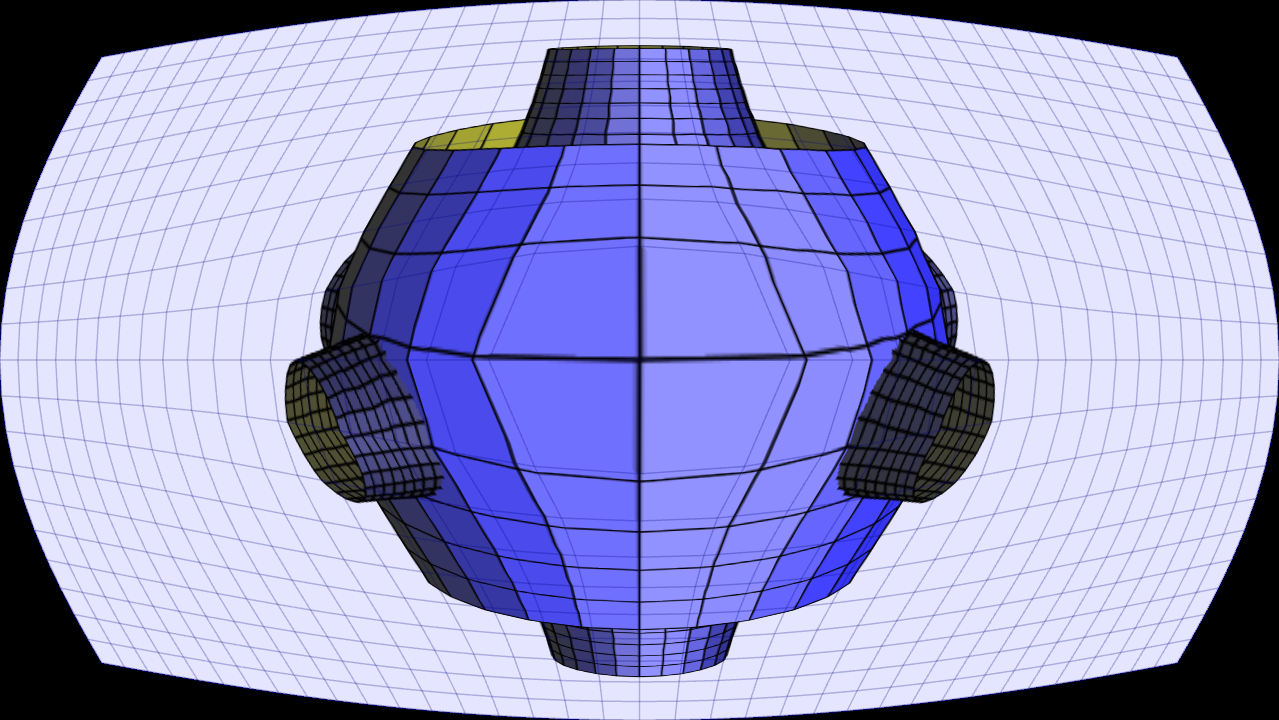
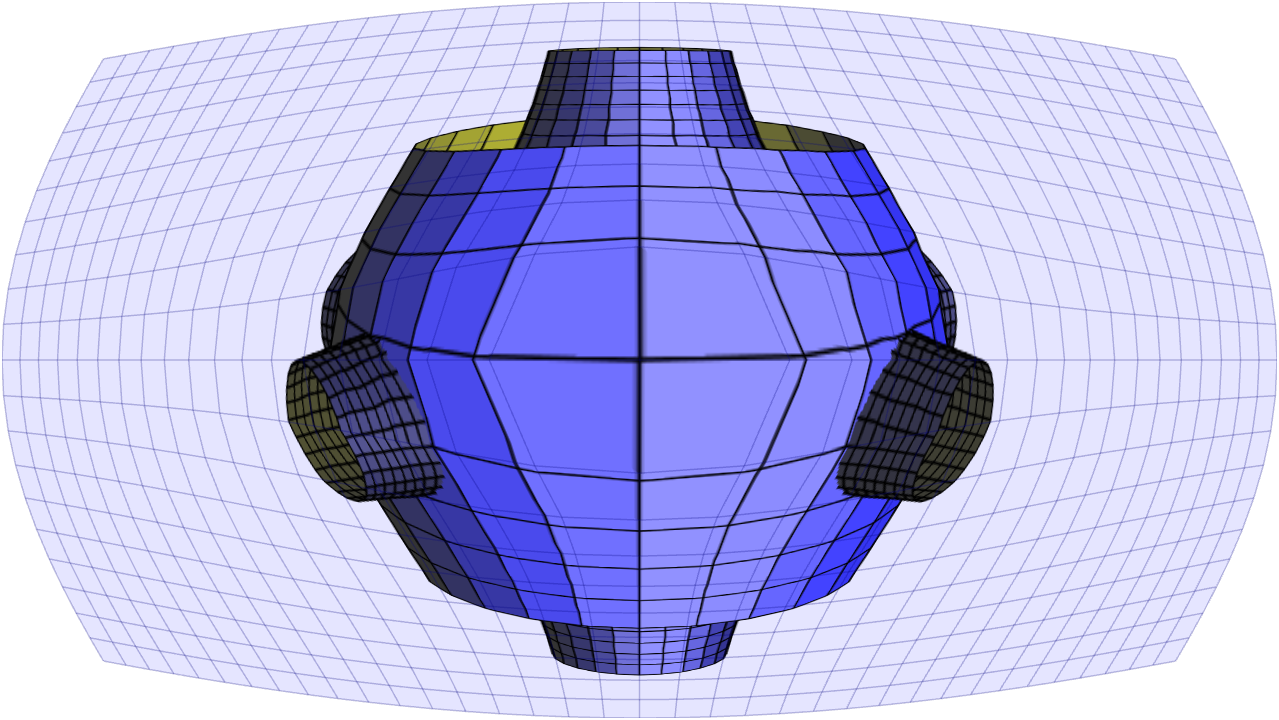
aesthetic change

diff --git a/TextureWarping-UniformGrid.c b/TextureWarping-UniformGrid.c
@@ -193,6 +193,13 @@ void PezRender()
     glDisable(GL_DEPTH_TEST);
 
     glBindFramebuffer(GL_FRAMEBUFFER, 0);
+
+    glClearColor(1,1,1,1);
+    glClear(GL_COLOR_BUFFER_BIT);
+    glClearColor(0.9, 0.9, 1.0, 1);
+    PezConfig cfg = PezGetConfig();
+    glViewport(2,2,cfg.Width-4,cfg.Height-4);
+
     glUseProgram(Globals.QuadProgram);
     glBindTexture(GL_TEXTURE_2D, Globals.FboTexture);
     if (0) {
@@ -207,6 +214,8 @@ void PezRender()
         glDrawElements(GL_LINES, Globals.Grid.LineIndexCount, GL_UNSIGNED_SHORT, 0);
     }
     glBindTexture(GL_TEXTURE_2D, 0);
+
+    glViewport(0,0,cfg.Width,cfg.Height);
 }
 
 void PezHandleMouse(int x, int y, int action)
